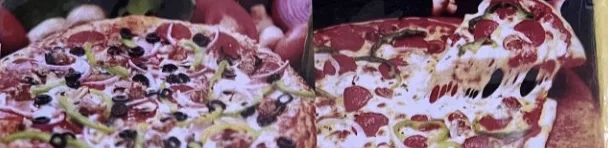
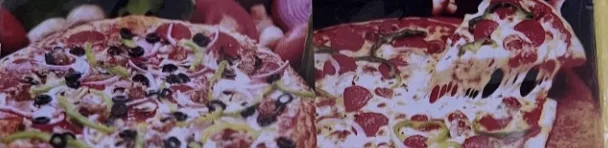
style: move the printed-menu layout onto a dark ground
Same composition, inverted surface: warm near-black, bone ink, gold
prices. Playfair Display SC small caps, Karla and the dot leaders all
stay as they were.

Red had to split in two. The solid #DC2626 still fills the action
buttons under white text, but it only reaches 3.1:1 as text on this
ground, so the sold-out marker uses #F05252 instead.

The pizza band is re-exported darker so it sits in the page rather than
glaring out of it.

diff --git a/src/styles/global.css b/src/styles/global.css
@@ -1,27 +1,28 @@
 @import "tailwindcss";
 
-/* Printed-menu editorial: warm blush paper, oxblood ink, gold prices.
-   No gradients, no glow, no glass, no dark mode. */
+/* Printed-menu editorial on a dark ground: warm near-black, bone ink, gold
+   prices. No gradients, no glow, no glass, no light mode. */
 
 @theme {
   --font-display: "Playfair Display SC", ui-serif, Georgia, serif;
   --font-sans: "Karla Variable", ui-sans-serif, system-ui, sans-serif;
 
-  --color-paper: #fef2f2;
-  --color-card: #ffffff;
-  --color-ink: #450a0a;
-  --color-muted: #7c5a56;
-  --color-rule: #f1d4d2;
+  --color-ground: #170f0e;
+  --color-raised: #231817;
+  --color-ink: #f5ebe8;
+  --color-muted: #b59b95;
+  --color-rule: #3a2726;
+  --color-gold: #d4a24c;
   --color-red: #dc2626;
-  --color-gold: #a16207;
+  --color-red-soft: #f05252;
   --color-on-red: #ffffff;
 }
 
 html {
   scroll-behavior: smooth;
   scroll-padding-top: 6rem;
-  background-color: var(--color-paper);
-  color-scheme: only light;
+  background-color: var(--color-ground);
+  color-scheme: only dark;
 }
 
 body {

diff --git a/README.md b/README.md
@@ -17,16 +17,16 @@ placed on the tables. The restaurant updates dishes, prices and photos through a
 
 ## Design system
 
-A printed menu, set for screen. Warm blush paper, oxblood ink, gold prices, and dot leaders
-running from each dish name to its price.
+A printed menu, set for screen, on a dark ground. Warm near-black, bone ink, gold prices, and dot
+leaders running from each dish name to its price.
 
-- Paper `#FEF2F2`, ink `#450A0A`, secondary text `#7C5A56`, rules `#F1D4D2`.
-- Gold `#A16207` carries every price; red `#DC2626` is reserved for actions and the sold-out
-  marker. Both clear 4.5:1 on the paper.
+- Ground `#170F0E`, ink `#F5EBE8`, secondary text `#B59B95`, rules `#3A2726`.
+- Gold `#D4A24C` carries every price at 7.9:1. Red splits in two: `#DC2626` fills the action
+  buttons under white text, `#F05252` is the text tone for the sold-out marker, because the
+  solid red only reaches 3.1:1 against this ground.
 - Playfair Display SC is set in small caps for dish names, which is what makes the page read as a
   menu rather than a product listing.
-- The theme is locked light. The menu is opened from a QR code at a table, often outdoors, where
-  dark-on-light is the easier pairing to read under glare.
+- The theme is locked dark; `color-scheme: only dark`.
 - No gradients, no glow, no glass, no shadowed cards. Separation comes from rules and space.
 - Dot leaders are a flex child that grows into whatever gap is left (`.leader` in `global.css`),
   so they work at any name length without measurement.
